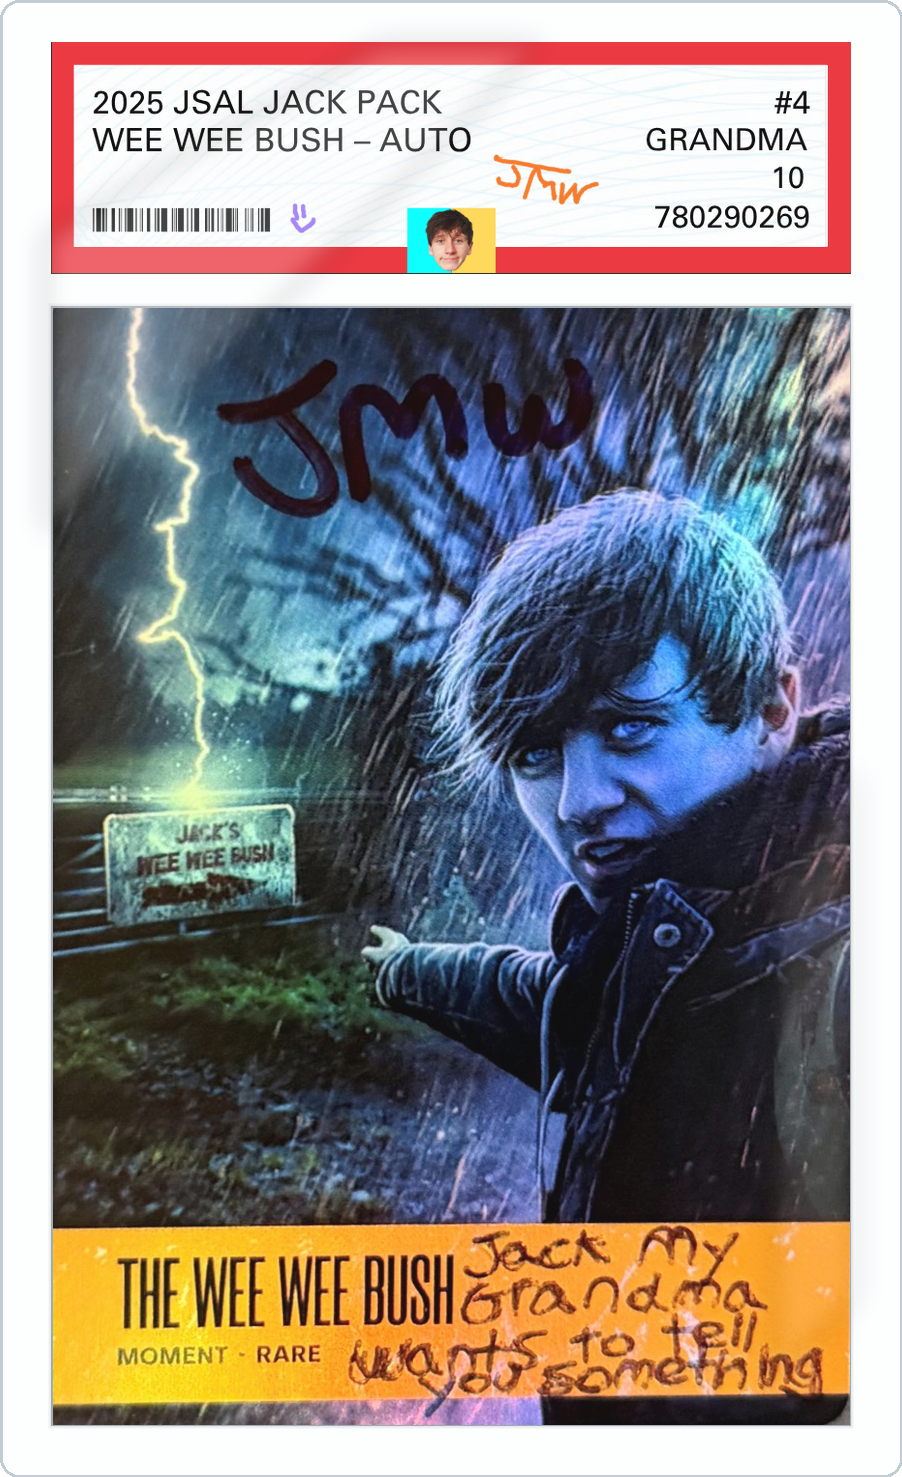
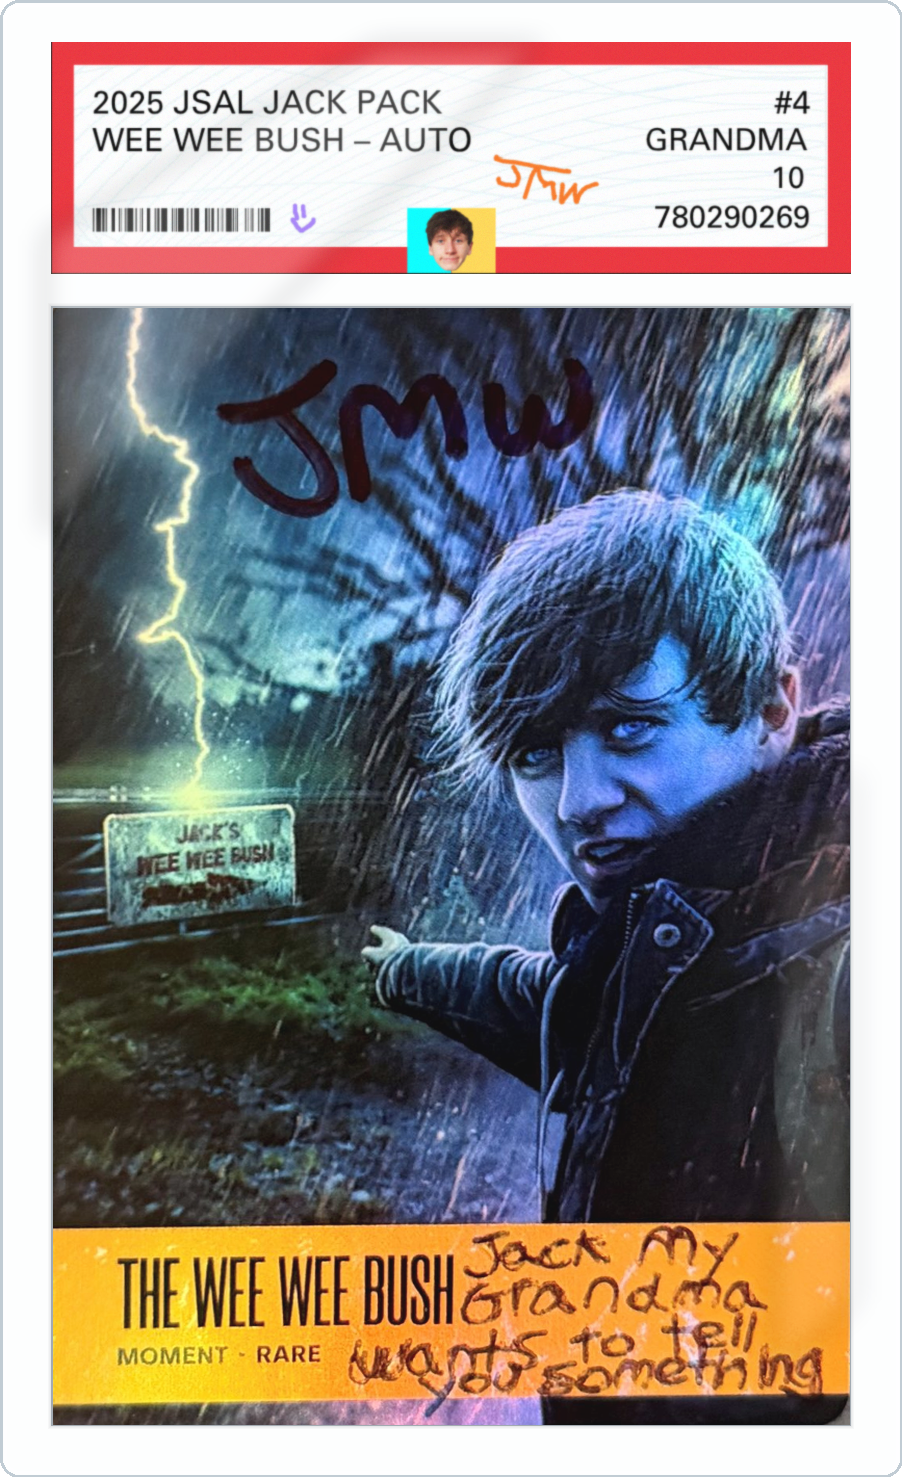
Match the slab label's optics to the photograph beside it
The label is a vector render and the card is a photograph, and side by side that showed:
high-frequency energy measured 25 across the label against 9 across the card. Razor-sharp
type sitting against optically soft photography, which is a giveaway no amount of correct
geometry hides. A slab photographed once would have both at the same acuity.

Three quarters of a pixel of blur and a little sensor grain closes most of the gap, 25 down
to 18, with text still crisply readable. It will never reach 9 because type carries more
edge energy than a photograph does, and driving it there would mean blurring the label
until it looked wrong.

diff --git a/src/make-slab.py b/src/make-slab.py
@@ -181,7 +181,20 @@ def build():
     lw = round((content_w - 2 * SIDE) * DPI)
     lh = round(label.height * lw / label.width)
     lx, ly = (slab_w - lw) // 2, round(TOP * DPI)
-    slab.paste(label.resize((lw, lh), Image.LANCZOS), (lx, ly))
+
+    # Take the digital edge off the label so it sits with the card instead of on top of it.
+    #
+    # The label is a vector render and the card is a photograph, and side by side that
+    # showed: high-frequency energy measured 25 on the label against 9 on the card, i.e.
+    # razor-sharp type against optically soft photography. A real slab photographed once
+    # would have both at the same acuity. A little blur and a little sensor grain is what
+    # closes that gap; the amounts are small because the label still has to be readable.
+    lab = label.resize((lw, lh), Image.LANCZOS).filter(ImageFilter.GaussianBlur(0.7))
+    arr = np.asarray(lab).astype(float)
+    rng = np.random.default_rng(4)
+    arr += rng.normal(0, 2.4, arr.shape)
+    lab = Image.fromarray(np.clip(arr, 0, 255).astype(np.uint8))
+    slab.paste(lab, (lx, ly))
 
     cw, ch = round(CARD_W * DPI), round(CARD_H * DPI)
     cx, cy = (slab_w - cw) // 2, ly + lh + round(GAP * DPI)
